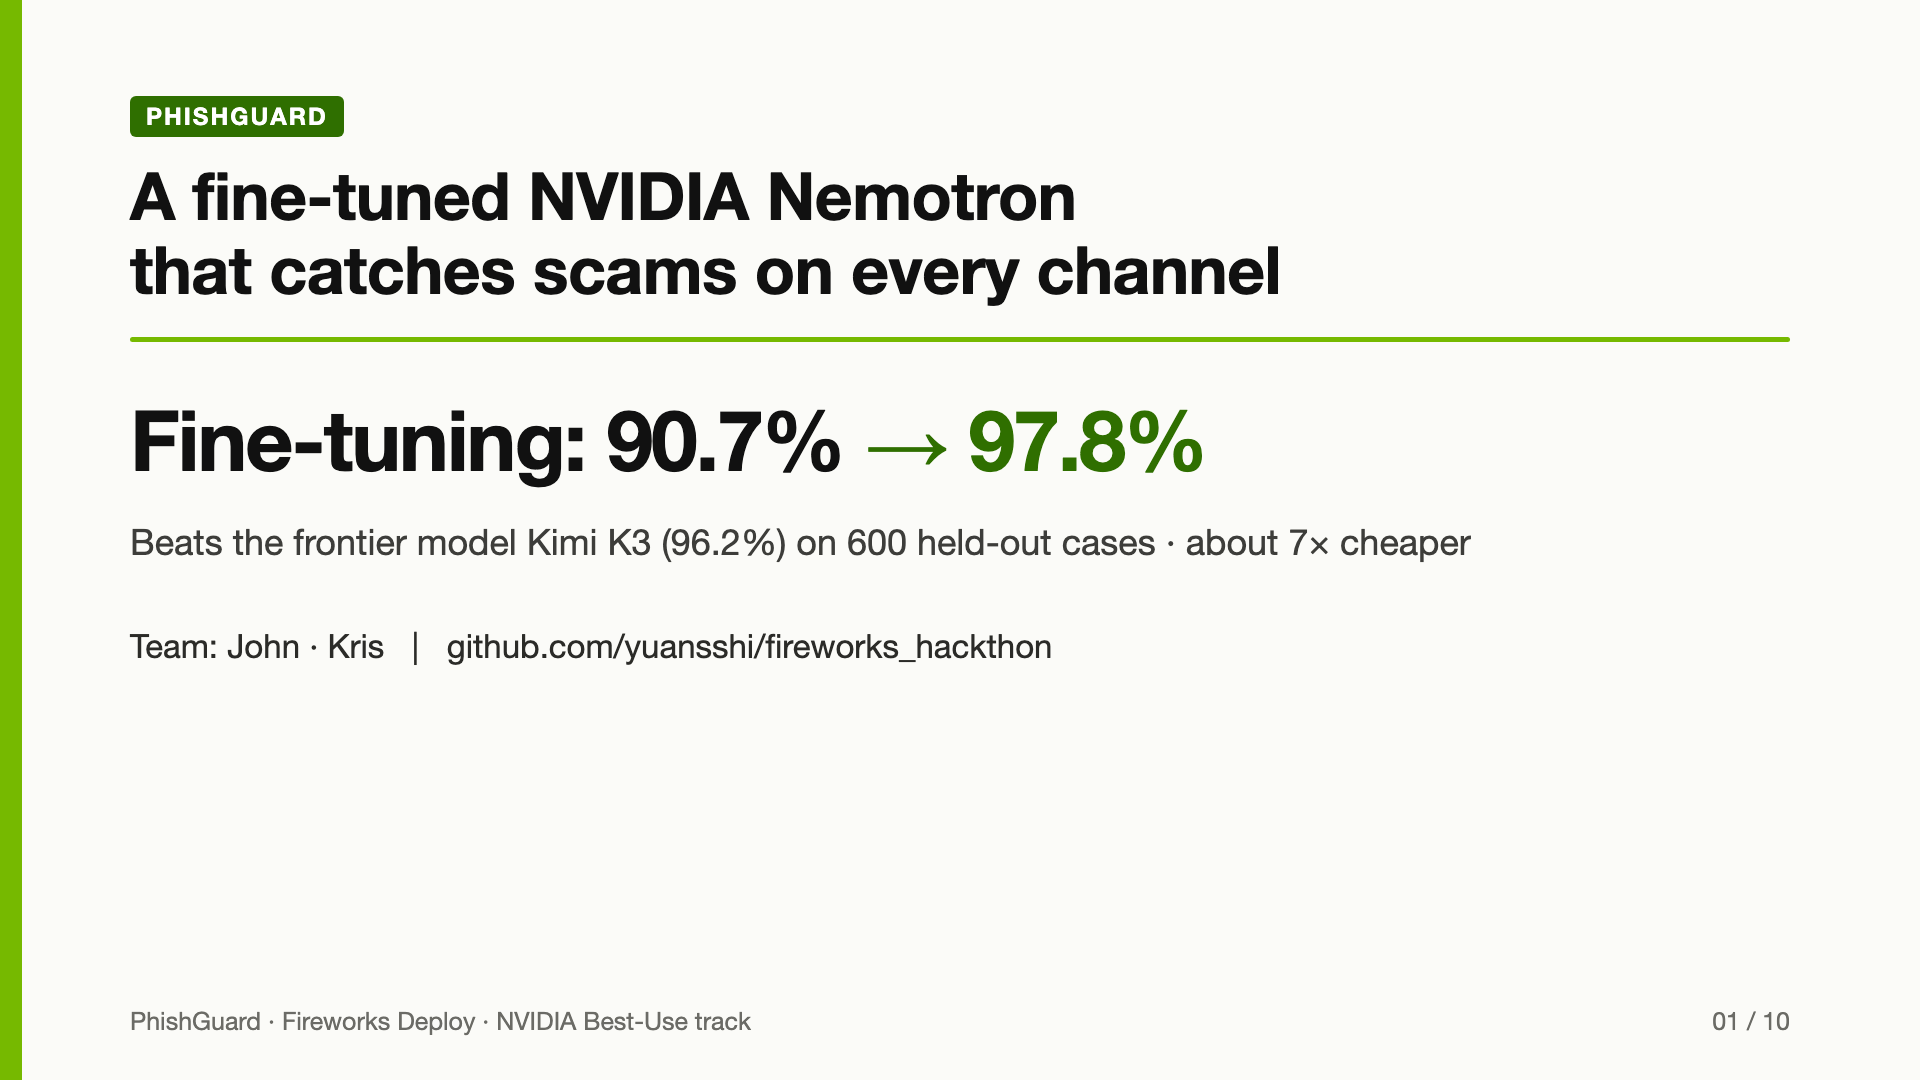
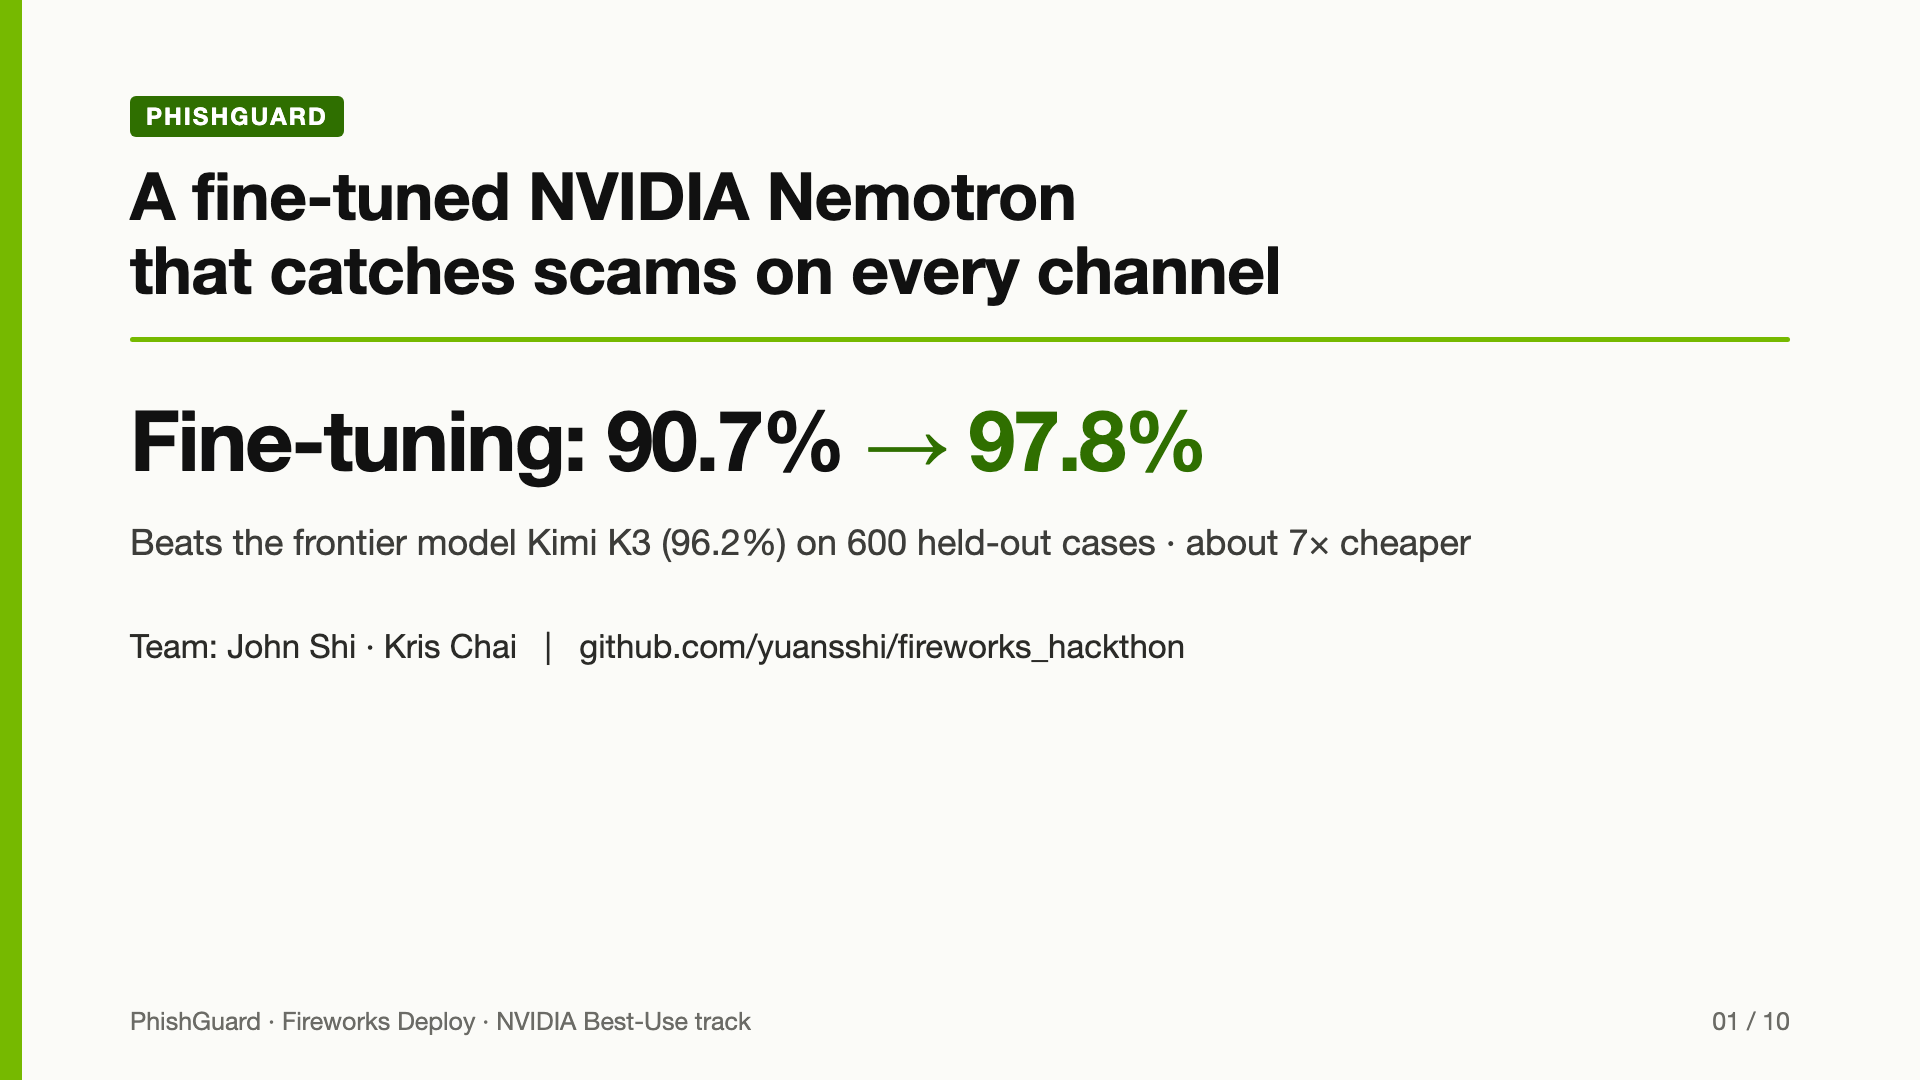
Team names: John Shi and Kris Chai
Fill the README Team line, put full names on the title slide (slides
re-rendered; only slide 1 and the PDF change), and tick the demo-guide
checklist item.

Changed region(s): [[0.1562, 0.5806, 0.625, 0.6111]]

diff --git a/scripts/make_media.py b/scripts/make_media.py
@@ -194,7 +194,7 @@ DECK = [
 <div class='rule'></div>
 <div class='hero' style='font-size:84px'>Fine-tuning: 90.7% <b>&rarr; 97.8%</b></div>
 <div class='sub'>Beats the frontier model Kimi K3 (96.2%) on 600 held-out cases · about 7× cheaper</div>
-<div class='note'>Team: John · Kris &nbsp;&nbsp;|&nbsp;&nbsp; """ + REPO + "</div>",
+<div class='note'>Team: John Shi · Kris Chai &nbsp;&nbsp;|&nbsp;&nbsp; """ + REPO + "</div>",
      "This is PhishGuard: an NVIDIA Nemotron model, fine-tuned on Fireworks, that catches scams across every channel."),
     (sec("1 · The problem") + """<h2>Scams hit every channel. Screening them all is too expensive.</h2><div class='rule'></div>
 <div class='stats'>

diff --git a/README.md b/README.md
@@ -172,7 +172,7 @@ checkpoint is still running.
 
 ## Team, disclosures, sponsor track
 
-- **Team:** _[FILL: names]_
+- **Team:** John Shi, Kris Chai
 - **Built during the event:** all code in this repository. No pre-existing project code or trained models. Round-2 code and results on this branch were added after the deadline.
 - **AI assistance:** Claude Code helped write the data pipeline, evaluation harness, report generator and round-2 tooling. The team reviewed and ran everything and owns the results.
 - **NVIDIA Best-Use track:** the submitted system *is* an NVIDIA Nemotron model (Nemotron 3.5 Super, 120B-A12B), LoRA-fine-tuned on Fireworks Serverless Training. Nemotron Lightning 30B-A3B also powers the cheapest tier of our router.

diff --git a/docs/DEMO_GUIDE.md b/docs/DEMO_GUIDE.md
@@ -111,6 +111,6 @@ Prefer a human voice? Read `docs/VIDEO_SCRIPT.md` over the slides with QuickTime
 - [x] Follows Problem → Tech Stack → Live Demo + Code, and shows the before/after fine-tuning numbers
 - [x] Mentions the tradeoff (drift) and the NVIDIA Nemotron usage
 - [x] `docs/slides.pdf` committed; README links to the video and slides
-- [ ] Team names in the README Team section
+- [x] Team names in the README Team section (John Shi, Kris Chai)
 - [ ] Upload `docs/video/phishguard_2min.mp4` to the HackerSquad form (or an unlisted link), and test it in a private window
 - [ ] Commit hash taken **after** the last commit (`git rev-parse HEAD`)
